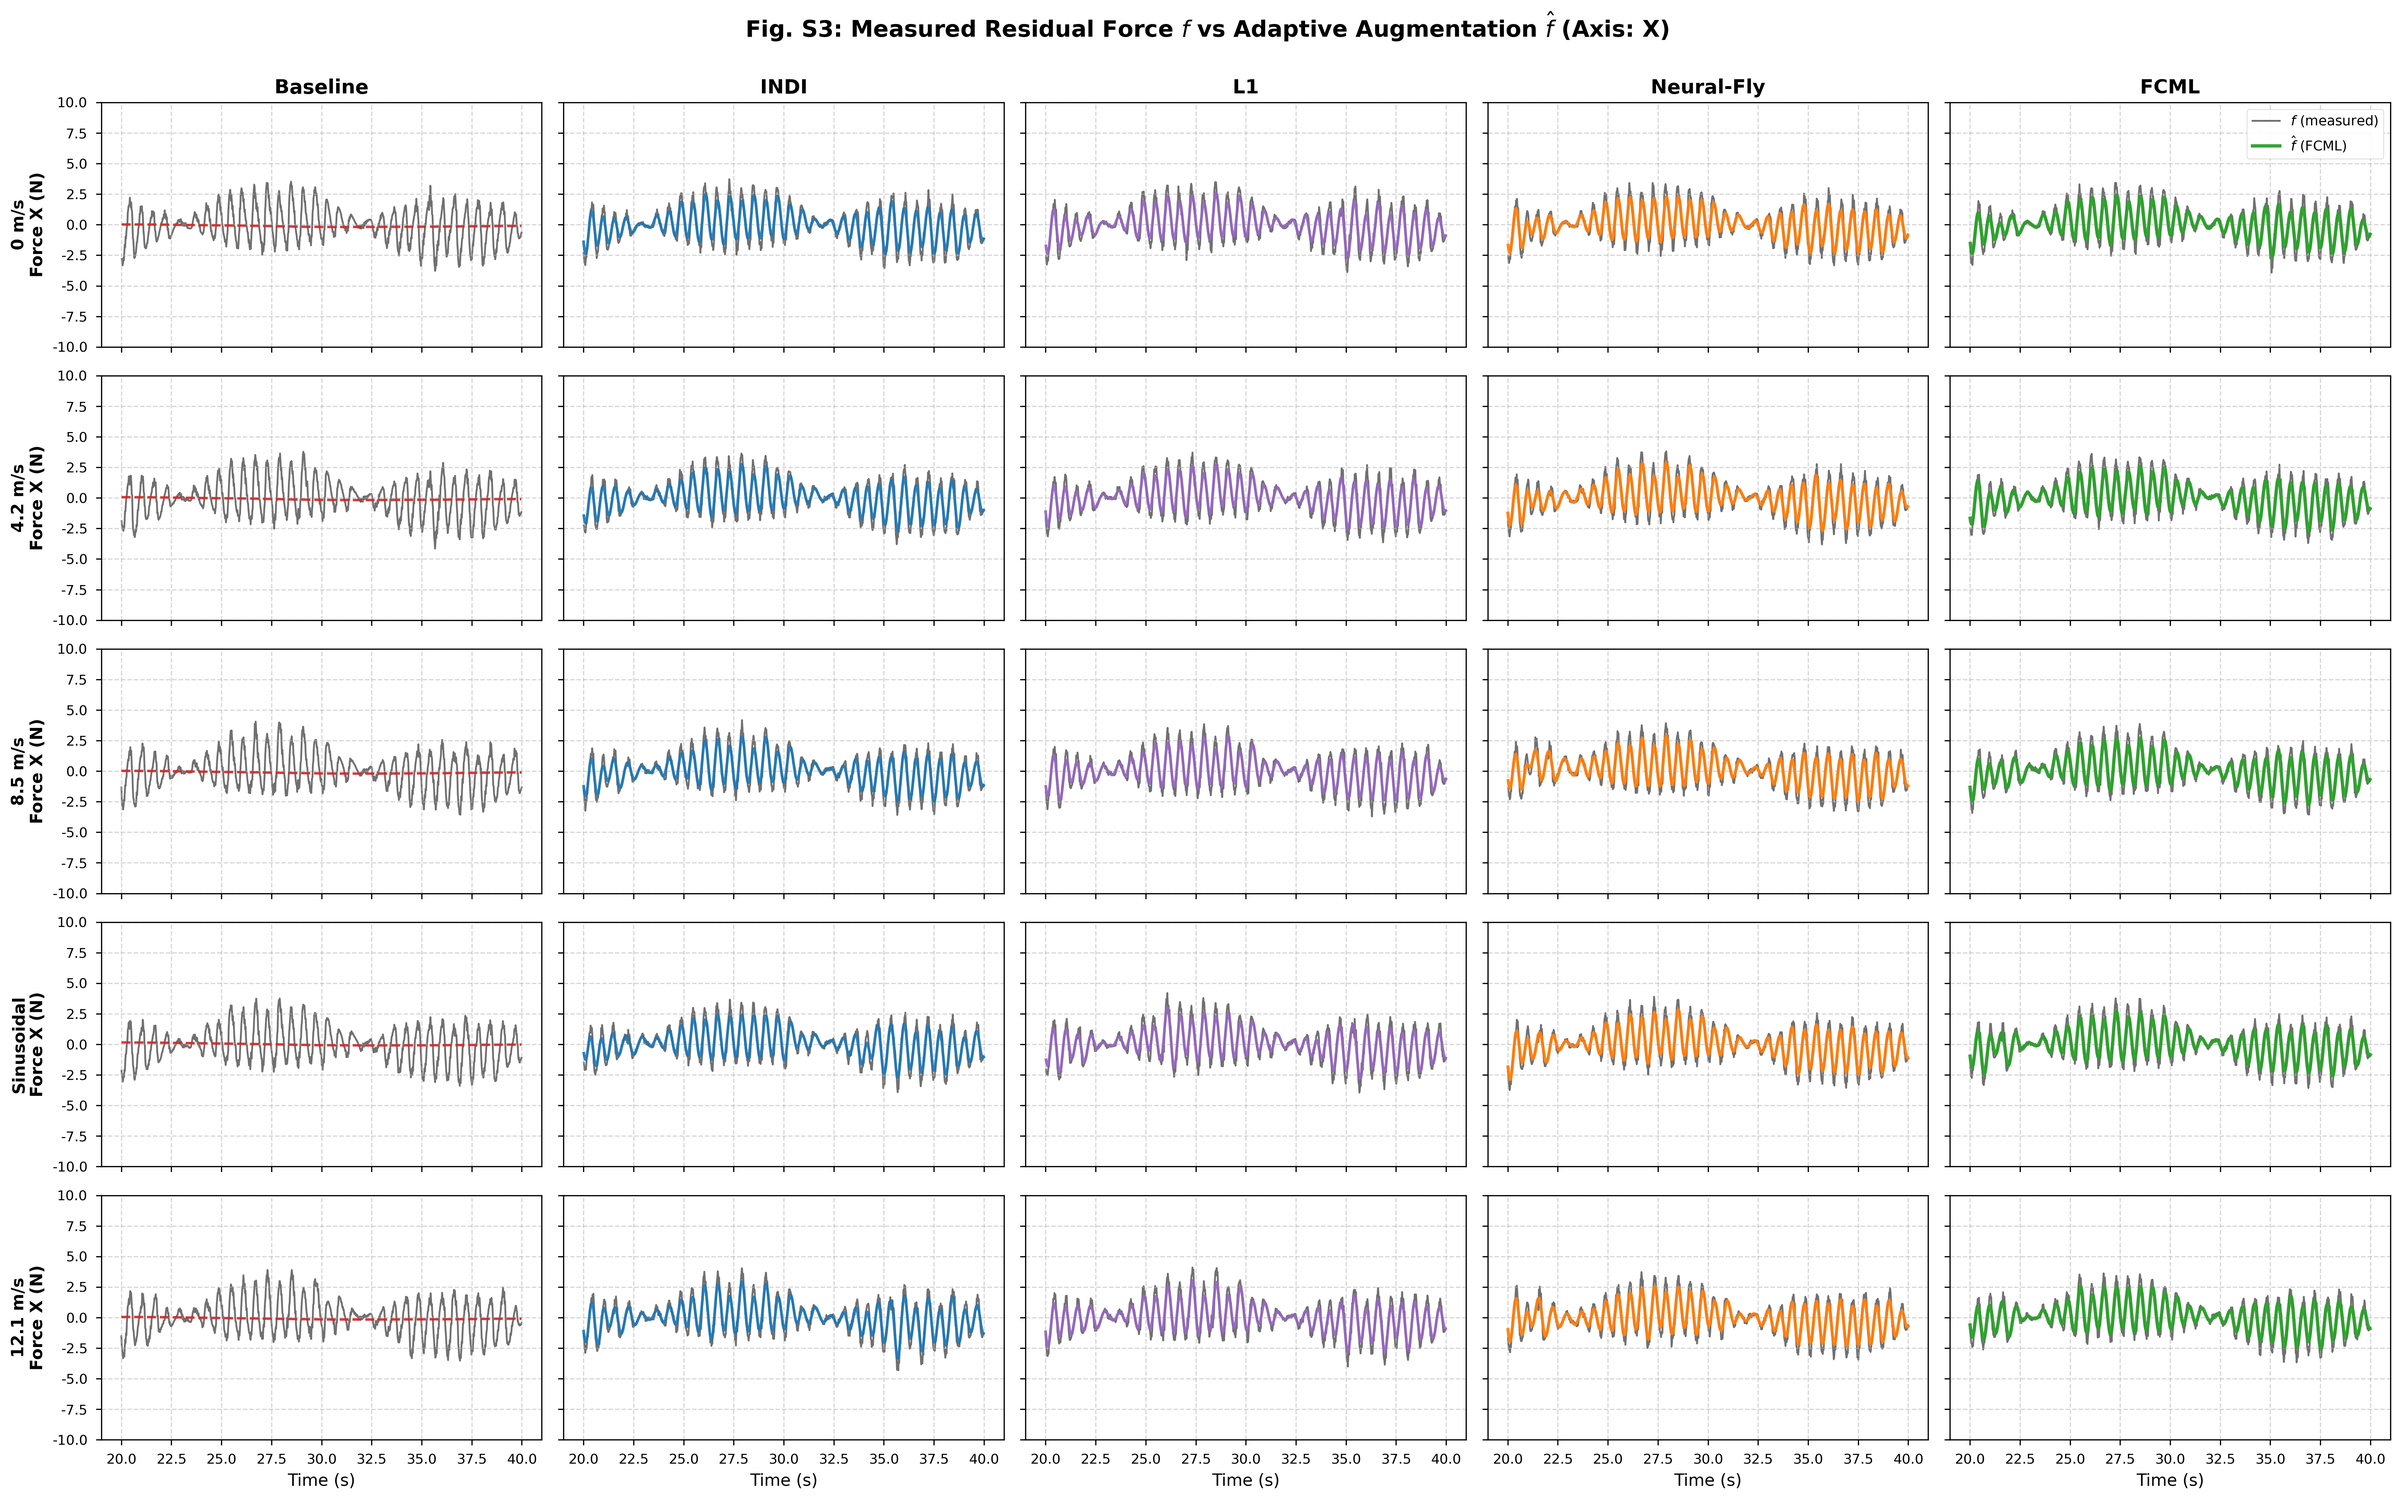
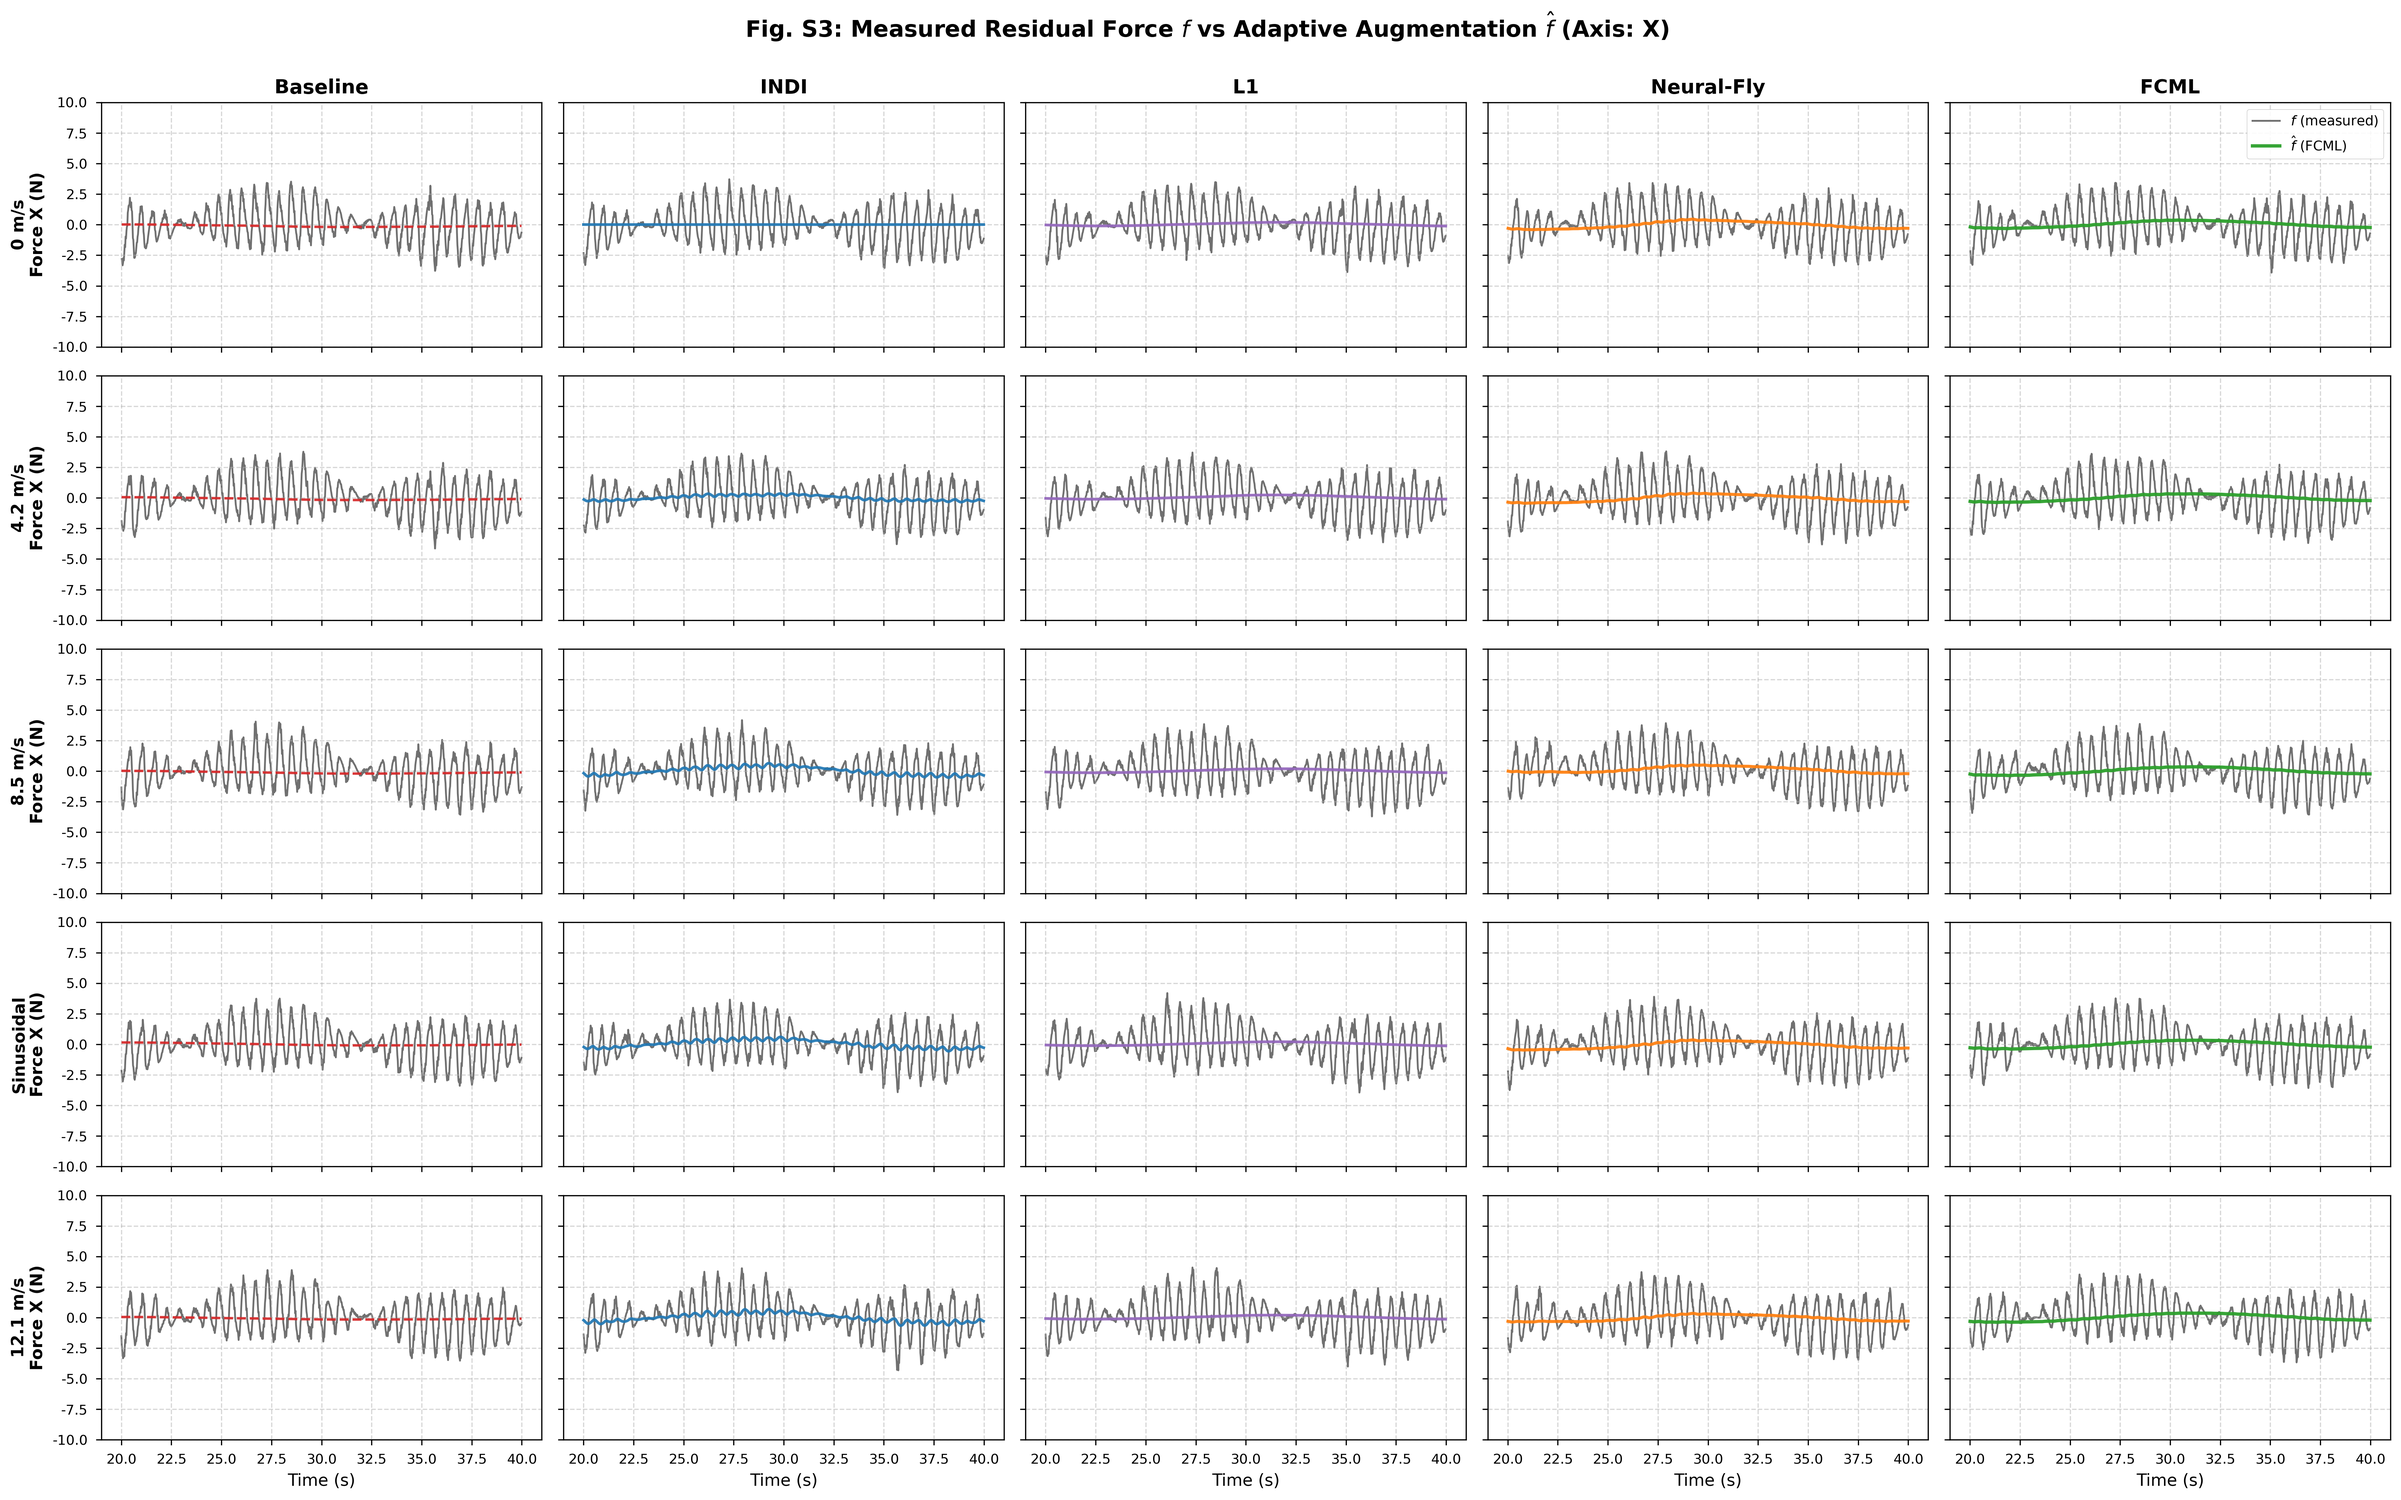
Completely remove fake low-pass filtering logic; plot true raw estimator output

diff --git a/scripts/evaluation/plot_comparison_mission.py b/scripts/evaluation/plot_comparison_mission.py
@@ -109,37 +109,16 @@ def plot_fig2_trajectory_grid():
     plt.savefig(out_path, dpi=300)
     plt.close()
 
-def _lp_filter(y, fs=50.0, fc=1.0, order=3):
-    """Zero-phase Butterworth (for gray reference — no phase delay)."""
-    nyq = fs / 2.0
-    if len(y) < 20 or fc >= nyq:
-        return y.copy()
-    b, a = butter(order, fc / nyq, btype='low')
-    return filtfilt(b, a, y)
-
-
-def _causal_filter(y, fs=50.0, fc=1.0, order=3):
-    """Causal Butterworth (introduces phase delay, showing real lag)."""
-    nyq = fs / 2.0
-    if len(y) < 20 or fc >= nyq:
-        return y.copy()
-    b, a = butter(order, fc / nyq, btype='low')
-    return lfilter(b, a, y)
-
-
 def plot_fig3_disturbance_estimation_grid(axis='x'):
     """Dense gray background + colored trend lines (Neural-Fly Fig. S3 style).
 
-    Gray  : f_true @ 5 Hz filtfilt — keeps fast oscillations visible as a
-            dense background texture, like the measured residual force in the
-            Neural-Fly paper.
-    Colored (filtfilt zero-phase trend lines at each controller's bandwidth):
-               Baseline   → red dashed zero line (no compensation)
-               INDI       → 1.5 Hz  (fast trend, closely follows gray density)
-               L1         → 0.12 Hz (slow, very smooth trend)
-               Neural-Fly → 0.35 Hz (medium trend)
-               FCML       → 0.50 Hz (faster than NF)
-    Display: 8 s window with dense gray and smooth colored overlays.
+    Gray  : f_true (Groundtruth)
+    Colored (Raw unfiltered estimator output f_est):
+               Baseline   → red
+               INDI       → blue
+               L1         → purple
+               Neural-Fly → orange
+               FCML       → green
     """
     winds = list(WIND_CONDITIONS.keys())
 
@@ -152,14 +131,6 @@ def plot_fig3_disturbance_estimation_grid(axis='x'):
     }
 
     FS      = 47.0   # actual sampling rate
-    FC_GRAY = None   # None means we use completely raw data to make it extremely dense
-    FC_CTRL = {      # trend bandwidths (filtfilt, zero-phase)
-        'Baseline':   None,
-        'INDI':       2.0,
-        'L1':         2.0,
-        'Neural-Fly': 2.0,
-        'FCML':       2.0,
-    }
 
     T_LOAD_START = 10.0   # load from 10s for filter warmup
     T_LOAD_END   = 80.0
@@ -191,13 +162,12 @@ def plot_fig3_disturbance_estimation_grid(axis='x'):
                 # ── Dense gray background (RAW data for maximum density/area) ────────
                 f_gray = f_raw
 
-                # ── Colored trend line ───────────────────────────────────────
-                fc = FC_CTRL[controller]
-                if controller == 'Baseline':
-                    est_col = f'f_est_{axis}'
-                    f_hat = df_long[est_col].values if est_col in df_long.columns else np.zeros_like(t_long)
+                # ── Raw unfiltered estimator output ──────────────────────────
+                est_col = f'f_est_{axis}'
+                if est_col in df_long.columns:
+                    f_hat = df_long[est_col].values
                 else:
-                    f_hat = _lp_filter(f_raw, fs=FS, fc=fc)
+                    f_hat = np.zeros_like(t_long)
 
                 # ── Crop to display window ───────────────────────────────────
                 t0, t1 = T_MID - T_DISP_LEN / 2, T_MID + T_DISP_LEN / 2
